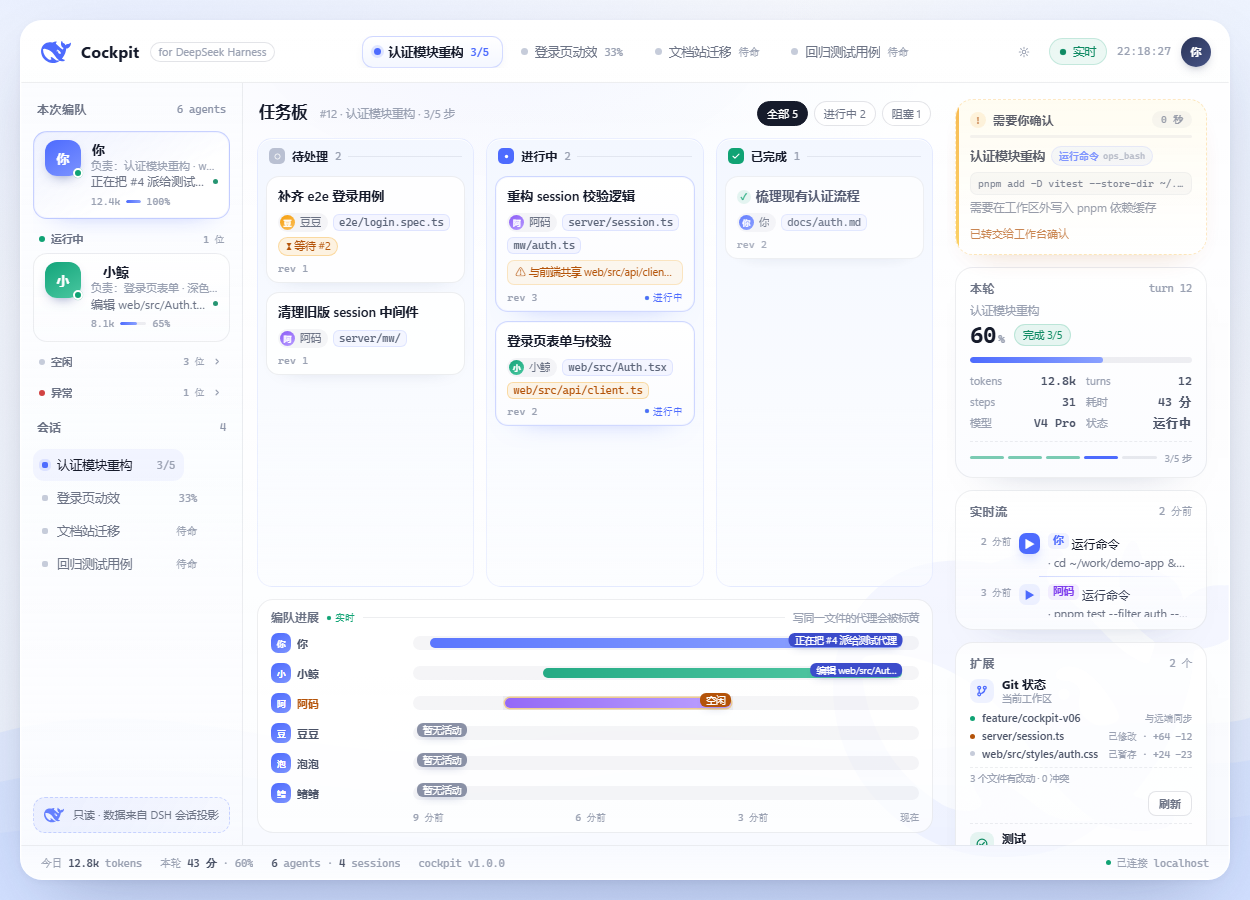
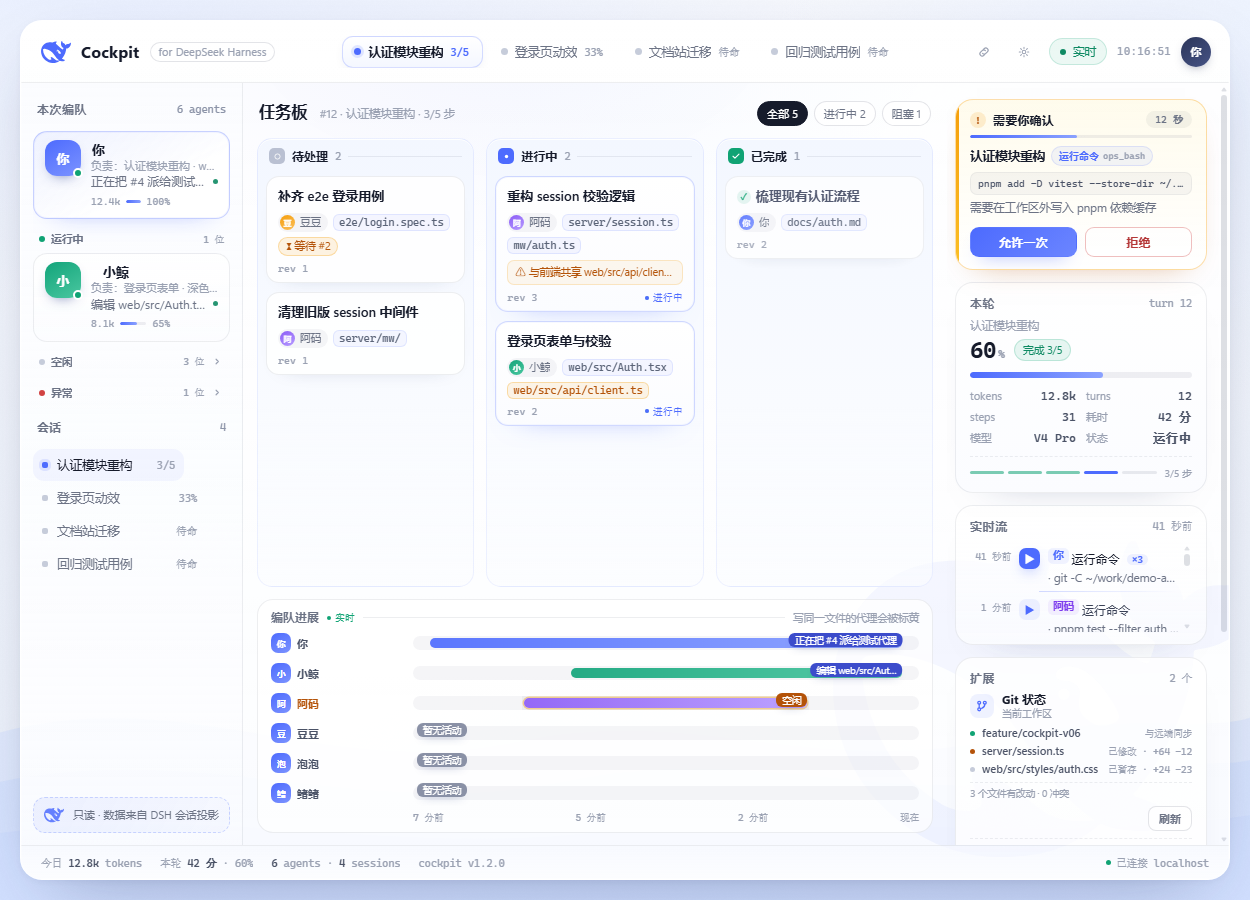
docs(D7): real-machine acceptance screenshots and README refs
- verify v1.2.0 on the live deck over CDP: 25/25 checks (overview, copy link,
  settings chrome, self-check rows, D4/D5 deep links, share link, embed,
  mobile, no page errors)
- reshoot docs screenshots from the preview mock (1250x900) and add real
  capsule snapshot + diagnostics card; README references updated
- ROADMAP: mark D7 done, record live verification evidence

diff --git a/docs/ROADMAP.md b/docs/ROADMAP.md
@@ -40,12 +40,14 @@
 - A2 `2a46420`：反馈语气/时长统一（ok 2.4 s / warn 3.6 s / error 4.8 s）+ 内联错误统一 `.set-alert` + 失败文案给出下一步
 - A4 `d946acb`：胶囊 hover 高亮 + 待审批琥珀描边（140/180 ms 淡入淡出，点击/拖拽/箭头区不变）
 - B1 `b42d901`：活动流同类工具调用折叠「×N」+ 过滤空 detail（仅视图层，host 事件不丢）
+- D7 实机验收（2026-10-21）：真实页面 CDP 检查 25/25 通过；README 截图重拍（desktop / desktop-dark / remote-settings / capsule-settings / mobile-dark，新增 capsule 与 diagnostics）
 
 结论与调整：
 
 - B2「渲染签名补全」经代码核对**已无必要**：`stateSignature()` 本就覆盖除 `now` / `session.elapsedMs` 外的全部 payload（含 approvals/remote/capsule），未变化时 `applyState` 直接返回、不重绘。进一步优化需把「整树重建」改为局部 patch，属 v1.3 范围，已移出今日清单。
 - 发布时已同步：`package.json` / `mock/state.json` / `README` 安装命令 / `CHANGELOG` 顶部 / `docs/STATE.md` 抬头全部升到 v1.2.0；随后通过 GitHub API 发布（tag `v1.2.0` + Release 附件 `dsh-cockpit-1.2.0.tgz` / `.sha256`）。
-- D6 启动回放、D8 术语文案统一留到发布后的下一个补丁；D7 实机验收改为发布后立刻做（重载插件 → 检查 8 项）。C1 `scripts/release.mjs` 在 token + 网络就绪后随发布一起做。
+- D6 启动回放、D8 术语文案统一留到发布后的下一个补丁（v1.2.1）；C1 `scripts/release.mjs` 在 token + 网络就绪后随发布一起做。
+- D7 实机验收已完成（2026-10-21）：插件重载到 v1.2.0 后，用 headless Edge CDP 直接驱动真实 `/cockpit/` 页面跑 25 项检查（overview 渲染、复制链接、设置页卡头、自检 8 行与徽标、D4 失效链接静默、D5 深链参数消费、分享链接、embed、移动端、无页面错误）全部通过；重拍 README 截图并新增胶囊 / 诊断卡截图。
 
 ---
 
@@ -99,7 +101,7 @@
 | D4 | 失效 `?s=` 静默回落 | 区分「URL 带来的选择」与「用户手选」：来自 URL 的失效选择不弹 toast，直接换自动视图并清 URL | 旧链接打开无 toast；正常切换仍有提示 | 0.1 d |
 | D5 | `?focus=approvals` 健壮化 | 标记保留到「审批列表非空」或 10 s 超时再清；审批出现后仍自动展开+滚动 | 审批稍后才到时深链仍生效；无审批时 10 s 后不残留 | 0.1 d |
 | D6 | 启动回放（可延后） | 插件启动时对每个会话回放最近 ~50 条事件（按序 feed），恢复 running/lastAt；不改变 poll 种子逻辑 | 重载/重启后 2 s 内 HUD 显示运行中会话；无幽灵 running | 0.5 d |
-| D7 | 实机验收 + 截图 | 重载插件后逐项验收 1.1 功能（诊断卡/复制链接/胶囊点击/idle 不重写），补 `docs/` 新截图并在 README 引用 | 验收清单全勾；截图与真机一致 | 0.5 d |
+| D7 | 实机验收 + 截图 ✅ | 已完成（2026-10-21）：重载到 v1.2.0 后用 CDP 驱动真实页面跑 25 项检查；重拍 `desktop` / `desktop-dark` / `remote-settings` / `capsule-settings`（卡面裁切）/ `mobile-dark`，新增 `capsule`（真实胶囊快照）与 `diagnostics`，README 引用更新。审批允许/拒绝、写操作等破坏性项未在真实会话上采样（由 preview harness 覆盖） | 25/25 检查通过；截图入库 | 0.5 d |
 | D8 | 术语与文案统一 | 胶囊/HUD、指挥台/deck、自检/诊断、复制/拷贝等用语表，全文档 + UI 过一遍 | 术语表落文档；`grep` 无混用 | 0.25 d |
 
 ### 2.2 润色 A（体验打磨）
